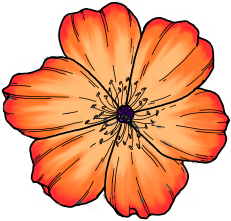
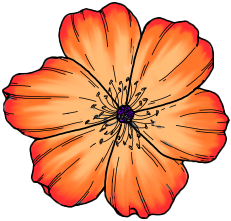
Adds colored flowers to tree navigation.

diff --git a/charter/charter-2024-2025/index.html b/charter/charter-2024-2025/index.html
@@ -13,16 +13,16 @@ title: 2024-2025 Charter
 west
 </span></a>
 <nav>
-<a href="/charter/charter-2024-2025/amna/"><span>Amna</span></a>
-<a href="/charter/charter-2024-2025/emmy/"><span>Emmy</span></a>
-<a href="/charter/charter-2024-2025/gramond/"><span>Gramond</span></a>
-<a href="/charter/charter-2024-2025/Kristin/"><span>Kristin</span></a>
-<a href="/charter/charter-2024-2025/oriane/"><span>Oriane</span></a>
-<a href="/charter/charter-2024-2025/amanda/"><span>Amanda</span></a>
-<a href="/charter/charter-2024-2025/brandon/"><span>Brandon</span></a>
-<a href="/charter/charter-2024-2025/ronda/"><span>Ronda</span></a>
-<a href="/charter/charter-2024-2025/shane/"><span>Shane</span></a>
-<a href="/charter/charter-2024-2025/jeremy/"><span>Jeremy</span></a>
+<a class="fellow" href="/charter/charter-2024-2025/amna/"><span>Amna</span></a>
+<a class="fellow" href="/charter/charter-2024-2025/emmy/"><span>Emmy</span></a>
+<a class="fellow" href="/charter/charter-2024-2025/gramond/"><span>Gramond</span></a>
+<a class="fellow" href="/charter/charter-2024-2025/Kristin/"><span>Kristin</span></a>
+<a class="fellow" href="/charter/charter-2024-2025/oriane/"><span>Oriane</span></a>
+<a class="staff" href="/charter/charter-2024-2025/amanda/"><span>Amanda</span></a>
+<a class="staff" href="/charter/charter-2024-2025/brandon/"><span>Brandon</span></a>
+<a class="staff" href="/charter/charter-2024-2025/ronda/"><span>Ronda</span></a>
+<a class="staff" href="/charter/charter-2024-2025/shane/"><span>Shane</span></a>
+<a class="staff" href="/charter/charter-2024-2025/jeremy/"><span>Jeremy</span></a>
 </nav>
 <h1>Goals & Aspirations</h1>
 <h2>Collaborate Together</h2>

diff --git a/charter/charter-2024-2025/style.css b/charter/charter-2024-2025/style.css
@@ -68,11 +68,19 @@ nav a {
     width: 70px;
     height: 70px;
     position: absolute;
-    transition: transform .25s ease-in-out;
+    transition: background-image .5s ease-in;
 }
 
-nav a:hover {
-    transform: rotate(8deg);
+nav a.fellow:hover,
+nav a.fellow:focus,
+nav a.fellow:active {
+    background-image: url('assets/flower-purple.png');
+}
+
+nav a.staff:hover,
+nav a.staff:focus,
+nav a.staff:active {
+    background-image: url('assets/flower-orange.png');
 }
 
 nav a span {
